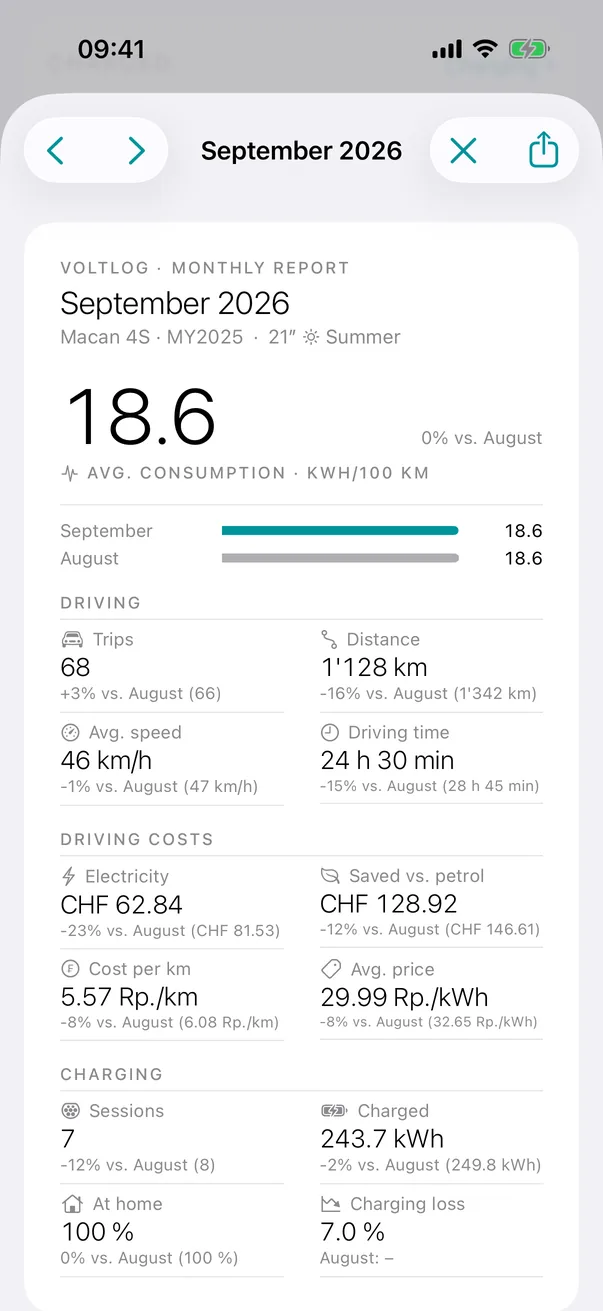
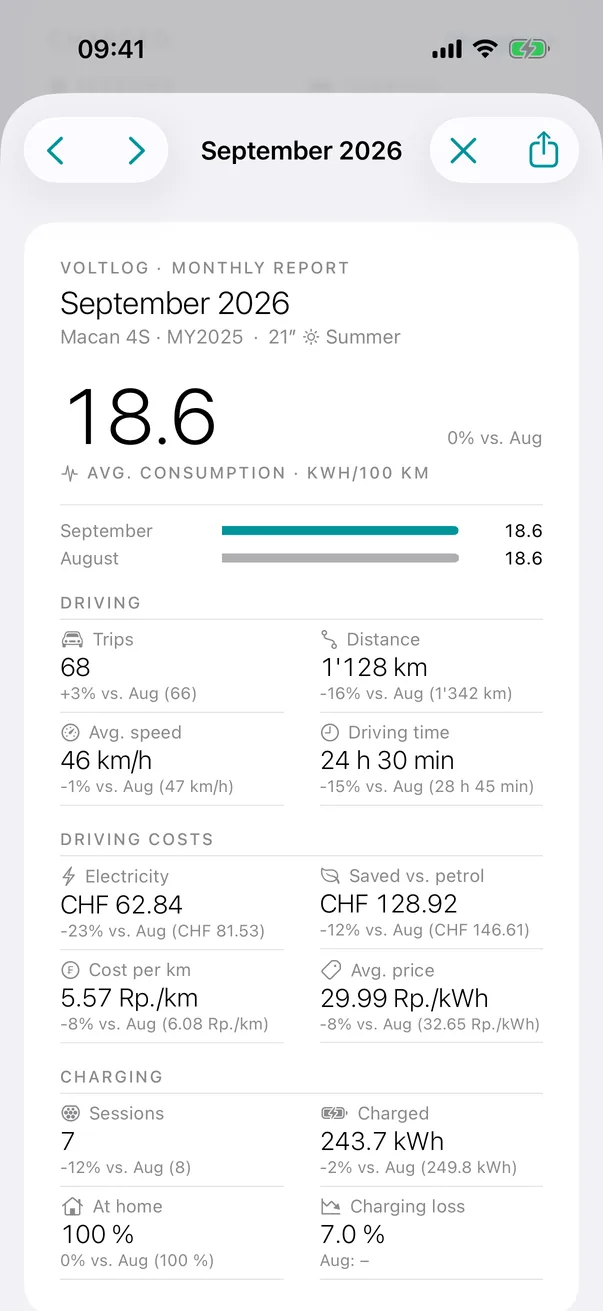
Self-hosted in one container; monthly report screenshots of 1.10.3
- Hosting: self-hosted, one container with the app and its SQLite
  database (no hosting provider or CI named).
- The monthly report's comparisons with the short month name, web and
  iPhone; version 1.10.3.

diff --git a/index.html b/index.html
@@ -242,10 +242,10 @@
     <div class="stage">
       <div class="browser">
         <div class="bar"><span>voltlog</span></div>
-        <img data-shot="web-dashboard" src="assets/dark/web-dashboard.webp?v=1.10.1" width="1800" height="1382" alt="The Voltlog dashboard: battery level, range, mileage and the last charge">
+        <img data-shot="web-dashboard" src="assets/dark/web-dashboard.webp?v=1.10.3" width="1800" height="1382" alt="The Voltlog dashboard: battery level, range, mileage and the last charge">
       </div>
       <div class="phone">
-        <img data-shot="ios-1-dashboard" src="assets/dark/ios-1-dashboard.webp?v=1.10.1" width="603" height="1311" alt="The dashboard in the iPhone app">
+        <img data-shot="ios-1-dashboard" src="assets/dark/ios-1-dashboard.webp?v=1.10.3" width="603" height="1311" alt="The dashboard in the iPhone app">
       </div>
     </div>
 
@@ -273,7 +273,7 @@
         <div class="shot">
           <div class="browser">
             <div class="bar"><span>voltlog</span></div>
-            <img data-shot="web-battery" src="assets/dark/web-battery.webp?v=1.10.1" width="1800" height="1382" loading="lazy" alt="The dashboard's battery card: WLTP range, average range, 10–80 % range, range at today's temperature and battery cycles">
+            <img data-shot="web-battery" src="assets/dark/web-battery.webp?v=1.10.3" width="1800" height="1382" loading="lazy" alt="The dashboard's battery card: WLTP range, average range, 10–80 % range, range at today's temperature and battery cycles">
           </div>
         </div>
       </section>
@@ -293,7 +293,7 @@
         <div class="shot">
           <div class="browser">
             <div class="bar"><span>voltlog / trips</span></div>
-            <img data-shot="web-trip" src="assets/dark/web-trip.webp?v=1.10.1" width="1800" height="1382" loading="lazy" alt="A trip's overview with costs, start place and weather">
+            <img data-shot="web-trip" src="assets/dark/web-trip.webp?v=1.10.3" width="1800" height="1382" loading="lazy" alt="A trip's overview with costs, start place and weather">
           </div>
         </div>
       </section>
@@ -313,7 +313,7 @@
         <div class="shot">
           <div class="browser">
             <div class="bar"><span>voltlog / charging</span></div>
-            <img data-shot="web-charging" src="assets/dark/web-charging.webp?v=1.10.1" width="1800" height="1382" loading="lazy" alt="The charging page with the month's summary and the list of charges">
+            <img data-shot="web-charging" src="assets/dark/web-charging.webp?v=1.10.3" width="1800" height="1382" loading="lazy" alt="The charging page with the month's summary and the list of charges">
           </div>
         </div>
       </section>
@@ -332,7 +332,7 @@
         <div class="shot">
           <div class="browser">
             <div class="bar"><span>voltlog / insights</span></div>
-            <img data-shot="web-insights-temperature" src="assets/dark/web-insights-temperature.webp?v=1.10.1" width="1800" height="1382" loading="lazy" alt="Insights: consumption by speed, trip length and outside temperature">
+            <img data-shot="web-insights-temperature" src="assets/dark/web-insights-temperature.webp?v=1.10.3" width="1800" height="1382" loading="lazy" alt="Insights: consumption by speed, trip length and outside temperature">
           </div>
         </div>
       </section>
@@ -351,10 +351,10 @@
         <div class="shot pair">
           <div class="browser">
             <div class="bar"><span>voltlog / monthly report</span></div>
-            <img data-shot="web-monthly" src="assets/dark/web-monthly.webp?v=1.10.1" width="1800" height="1382" loading="lazy" alt="The monthly report dialog">
+            <img data-shot="web-monthly" src="assets/dark/web-monthly.webp?v=1.10.3" width="1800" height="1382" loading="lazy" alt="The monthly report dialog">
           </div>
           <div class="phone">
-            <img data-shot="ios-1j-yearly-report" src="assets/dark/ios-1j-yearly-report.webp?v=1.10.1" width="603" height="1311" loading="lazy" alt="The yearly report on the iPhone">
+            <img data-shot="ios-1j-yearly-report" src="assets/dark/ios-1j-yearly-report.webp?v=1.10.3" width="603" height="1311" loading="lazy" alt="The yearly report on the iPhone">
           </div>
         </div>
       </section>
@@ -373,7 +373,7 @@
         <div class="shot">
           <div class="browser">
             <div class="bar"><span>voltlog / tires</span></div>
-            <img data-shot="web-tires" src="assets/dark/web-tires.webp?v=1.10.1" width="1800" height="1382" loading="lazy" alt="The tires page with the mounted set, its pressures and the swaps">
+            <img data-shot="web-tires" src="assets/dark/web-tires.webp?v=1.10.3" width="1800" height="1382" loading="lazy" alt="The tires page with the mounted set, its pressures and the swaps">
           </div>
         </div>
       </section>
@@ -392,7 +392,7 @@
         <div class="shot">
           <div class="browser">
             <div class="bar"><span>voltlog / data checks</span></div>
-            <img data-shot="web-checks" src="assets/dark/web-checks.webp?v=1.10.1" width="1800" height="1382" loading="lazy" alt="Data checks: a common place and a stay away from home">
+            <img data-shot="web-checks" src="assets/dark/web-checks.webp?v=1.10.3" width="1800" height="1382" loading="lazy" alt="Data checks: a common place and a stay away from home">
           </div>
         </div>
       </section>
@@ -417,7 +417,7 @@
       </div>
       <div class="browser">
         <div class="bar"><span>voltlog</span></div>
-        <img id="accent-shot" src="assets/accents/dark-teal.webp?v=1.10.1" width="1800" height="1382" loading="lazy" alt="The dashboard in the chosen accent color">
+        <img id="accent-shot" src="assets/accents/dark-teal.webp?v=1.10.3" width="1800" height="1382" loading="lazy" alt="The dashboard in the chosen accent color">
       </div>
     </section>
   </div>
@@ -431,14 +431,14 @@
       </header>
       <div class="phones" tabindex="0" aria-label="Screenshots of the iPhone app">
         <ul>
-          <li><div class="phone"><img data-shot="ios-2-trips" src="assets/dark/ios-2-trips.webp?v=1.10.1" width="603" height="1311" loading="lazy" alt=""></div><span class="caption">Trips of the month</span></li>
-          <li><div class="phone"><img data-shot="ios-3a-trip-detail" src="assets/dark/ios-3a-trip-detail.webp?v=1.10.1" width="603" height="1311" loading="lazy" alt=""></div><span class="caption">A trip and its costs</span></li>
-          <li><div class="phone"><img data-shot="ios-3e-trip-share" src="assets/dark/ios-3e-trip-share.webp?v=1.10.1" width="603" height="1311" loading="lazy" alt=""></div><span class="caption">A trip to share</span></li>
-          <li><div class="phone"><img data-shot="ios-6-insights" src="assets/dark/ios-6-insights.webp?v=1.10.1" width="603" height="1311" loading="lazy" alt=""></div><span class="caption">Records</span></li>
-          <li><div class="phone"><img data-shot="ios-1a-monthly-report" src="assets/dark/ios-1a-monthly-report.webp?v=1.10.1" width="603" height="1311" loading="lazy" alt=""></div><span class="caption">Monthly report</span></li>
-          <li><div class="phone"><img data-shot="ios-8-tires" src="assets/dark/ios-8-tires.webp?v=1.10.1" width="603" height="1311" loading="lazy" alt=""></div><span class="caption">Tires and pressures</span></li>
-          <li><div class="phone"><img data-shot="ios-10a-locations" src="assets/dark/ios-10a-locations.webp?v=1.10.1" width="603" height="1311" loading="lazy" alt=""></div><span class="caption">Locations</span></li>
-          <li><div class="phone"><img data-shot="ios-1g-data-checks" src="assets/dark/ios-1g-data-checks.webp?v=1.10.1" width="603" height="1311" loading="lazy" alt=""></div><span class="caption">Data checks</span></li>
+          <li><div class="phone"><img data-shot="ios-2-trips" src="assets/dark/ios-2-trips.webp?v=1.10.3" width="603" height="1311" loading="lazy" alt=""></div><span class="caption">Trips of the month</span></li>
+          <li><div class="phone"><img data-shot="ios-3a-trip-detail" src="assets/dark/ios-3a-trip-detail.webp?v=1.10.3" width="603" height="1311" loading="lazy" alt=""></div><span class="caption">A trip and its costs</span></li>
+          <li><div class="phone"><img data-shot="ios-3e-trip-share" src="assets/dark/ios-3e-trip-share.webp?v=1.10.3" width="603" height="1311" loading="lazy" alt=""></div><span class="caption">A trip to share</span></li>
+          <li><div class="phone"><img data-shot="ios-6-insights" src="assets/dark/ios-6-insights.webp?v=1.10.3" width="603" height="1311" loading="lazy" alt=""></div><span class="caption">Records</span></li>
+          <li><div class="phone"><img data-shot="ios-1a-monthly-report" src="assets/dark/ios-1a-monthly-report.webp?v=1.10.3" width="603" height="1311" loading="lazy" alt=""></div><span class="caption">Monthly report</span></li>
+          <li><div class="phone"><img data-shot="ios-8-tires" src="assets/dark/ios-8-tires.webp?v=1.10.3" width="603" height="1311" loading="lazy" alt=""></div><span class="caption">Tires and pressures</span></li>
+          <li><div class="phone"><img data-shot="ios-10a-locations" src="assets/dark/ios-10a-locations.webp?v=1.10.3" width="603" height="1311" loading="lazy" alt=""></div><span class="caption">Locations</span></li>
+          <li><div class="phone"><img data-shot="ios-1g-data-checks" src="assets/dark/ios-1g-data-checks.webp?v=1.10.3" width="603" height="1311" loading="lazy" alt=""></div><span class="caption">Data checks</span></li>
         </ul>
       </div>
     </div>
@@ -465,7 +465,7 @@
           <div><dt>Web app</dt><dd>React, TypeScript, Tailwind CSS, Recharts</dd></div>
           <div><dt>iPhone app</dt><dd>Swift 6, SwiftUI, Swift Charts</dd></div>
           <div><dt>Contract</dt><dd>One OpenAPI spec; both apps' types are generated from it</dd></div>
-          <div><dt>Hosting</dt><dd>One container on fly.io, deployed by GitHub Actions</dd></div>
+          <div><dt>Hosting</dt><dd>Self-hosted: one container with the app and its SQLite database</dd></div>
         </dl>
       </div>
       <div>
@@ -485,7 +485,7 @@
 <footer>
   <div class="wrap">
     <p>Voltlog is a personal project and is not affiliated with or endorsed by Porsche AG or Zaptec. Porsche, Macan and Taycan are trademarks of Porsche AG. All screenshots show fictional demo data.</p>
-    <p>Version 1.10.1</p>
+    <p>Version 1.10.3</p>
   </div>
 </footer>
 
@@ -507,7 +507,7 @@
   (function () {
     var root = document.documentElement;
     // The screenshots' version: changed with every new set, so browsers do not mix cached old ones in.
-    var V = "1.10.1";
+    var V = "1.10.3";
     var names = { "teal": "Teal", "oak-green": "Oak green", "gentian-blue": "Gentian blue", "signal-red": "Signal red", "berry": "Berry", "lavender": "Lavender" };
     function apply() {
       var theme = root.dataset.theme, accent = root.dataset.accent;
